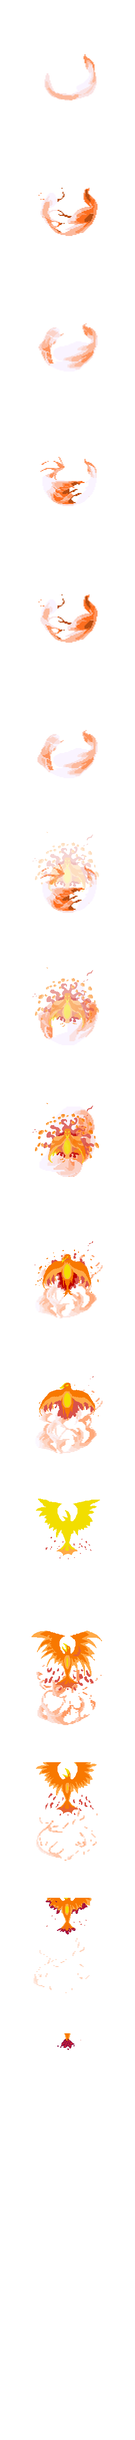
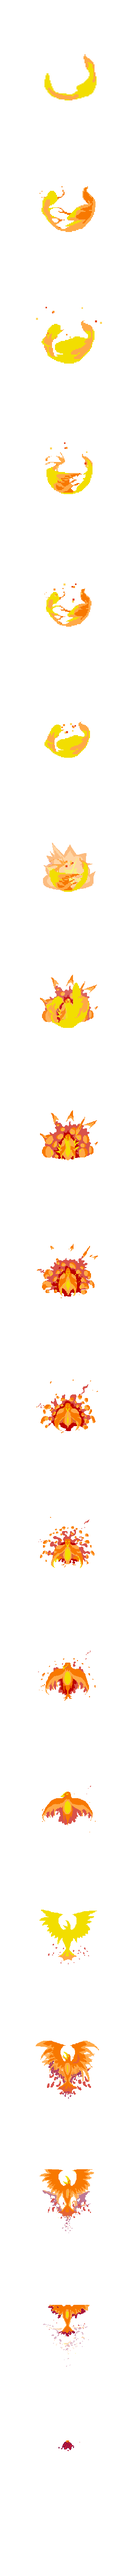
Phoenix Flame Strike caster: swirl recoloured from the phoenix's own palette, coils up the body into a fireball, phoenix born from Duelyst's drawn birth frames; target lead retimed
Claude-Session: https://claude.ai/code/session_01GL8iyk8YMQ4wday8ynG1KQ

Changed region(s): [[0.2667, 0.0, 0.7111, 0.9632]]

diff --git a/art/duelyst_fx/showcase/build_phoenix_caster.py b/art/duelyst_fx/showcase/build_phoenix_caster.py
@@ -8,9 +8,11 @@ Effects: damage on the target (rounds 0) + increasedamagegiven on the caster (SE
 both sides get art with no new tags and no mechanics change. Every clip of one action starts together, and a clip
 stays on its own hex, so the flight is told by timing: the phoenix climbs out of the top of the caster's clip, and
 the target's clip is held back until then and opens with the fireball diving in from above.
-- CASTER appear (buff effect), 18 frames x 70 ms: fire-tinted swirl (Duelyst fx_f1_inmolation 2-7) round the legs;
-  it flares up (inmolation 14-16) while the phoenix fades in out of it (fx_f2_phoenixfire 19); wings fold then open
-  (phoenixfire 20-21); a launch flash (phoenixfire 24); the phoenix climbs and leaves the frame (22, 23, 25, 26).
+- CASTER appear (buff effect), about 19 frames x 70 ms (empty tail trimmed). The swirl (Duelyst fx_f1_inmolation, remapped by luminance onto
+  a colour ramp sampled from the phoenix's own frames, so it is the same fire) coils up from the shins and tightens
+  on the chest while embers spiral in; it flares (inmolation 14-15) over the start of Duelyst's drawn birth
+  (fx_f2_phoenixfire 15-19: the fireball bursts with the phoenix inside), wings fold and open (20-21), a launch
+  flash (24), and the phoenix climbs out of the frame (22, 23, 25, 26) over the birth's dying embers (27-31).
 - No loop or end clip on the buff (director: "There's so many buffs in tnr it would be a mess if they all stayed"):
   the flames show during the cast only; the buff itself stays invisible like other TNR buffs.
 - TARGET appear (damage effect): phoenixfire 8-37 (dive, egg, burst, phoenix, embers) behind a blank lead as long as
@@ -52,31 +54,94 @@ def stamp(canvas, im, cx, cy):
     canvas.alpha_composite(im, (int(round(cx - im.width / 2)), int(round(cy - im.height / 2))))
 
 
+def ramp_from(frames, bins=256):
+    """A luminance -> colour lookup sampled from frames (the phoenix's own fire), dark to light."""
+    import numpy as np
+    pix = []
+    for f in frames:
+        a = np.asarray(f.convert("RGBA")).reshape(-1, 4)
+        pix.append(a[a[:, 3] > 200][:, :3])
+    pix = np.concatenate(pix).astype(np.float32)
+    lum = pix @ np.array([0.299, 0.587, 0.114], np.float32)
+    order = np.argsort(lum)
+    pix, lum = pix[order], lum[order]
+    lut = np.zeros((bins, 3), np.float32)
+    edges = np.linspace(0, len(lum), bins + 1).astype(int)
+    for i in range(bins):
+        seg = pix[edges[i]:max(edges[i] + 1, edges[i + 1])]
+        lut[i] = seg.mean(0)
+    return lut
+
+
+def remap(im, lut):
+    """Recolour by luminance rank onto `lut`, keeping alpha: the swirl becomes the phoenix's fire."""
+    import numpy as np
+    a = np.asarray(im.convert("RGBA")).astype(np.float32)
+    lum = a[..., :3] @ np.array([0.299, 0.587, 0.114], np.float32)
+    idx = np.clip((lum / 255 * (len(lut) - 1)).astype(int), 0, len(lut) - 1)
+    out = a.copy()
+    out[..., :3] = lut[idx]
+    return Image.fromarray(out.astype(np.uint8), "RGBA")
+
+
+def sparks(canvas, centre, n, t, radius, seed=3):
+    """Embers spiralling inward to `centre` (t 0 -> 1), drawn in phoenix colours."""
+    import math
+    import random
+    rnd = random.Random(seed)
+    d = ImageDraw.Draw(canvas)
+    cols = [(255, 214, 90, 255), (255, 150, 40, 255), (230, 70, 30, 255)]
+    for i in range(n):
+        a0 = rnd.uniform(0, 2 * math.pi)
+        r = radius * (1 - t) * rnd.uniform(0.6, 1.0)
+        a = a0 + t * 2.4
+        x, y = centre[0] + math.cos(a) * r, centre[1] + math.sin(a) * r * 0.55
+        sz = 2 + (i % 2)
+        d.rectangle((x, y, x + sz, y + sz), fill=cols[i % 3])
+
+
 def build(app):
     src = os.path.join(app, "resources", "fx")
-    inmo = [D.tint(f, FIRE).resize((140, 140), Image.NEAREST) for f in D.squared(D.frames(src, "fx_f1_inmolation"))]
     phx = D.squared(D.frames(src, "fx_f2_phoenixfire"))           # 150 px
-    swirl_y = FEET - 0.45 * TH                                      # swirl centre round the shins/thighs
-    phx_y = BODY - 10                                               # phoenix forms over the body
+    lut = ramp_from(phx[20:27])
+    inmo = [remap(f, lut).resize((140, 140), Image.NEAREST) for f in D.squared(D.frames(src, "fx_f1_inmolation"))]
+    swirl_y0 = FEET - 0.45 * TH                                     # starts round the shins
+    phx_y = BODY - 10                                               # the phoenix is born over the chest
     blank = lambda: Image.new("RGBA", (C, C), (0, 0, 0, 0))         # noqa: E731
+    shrink = lambda im, k: im.resize((max(1, int(im.width * k)),) * 2, Image.NEAREST)  # noqa: E731
     appear = []
-    for i in range(2, 8):                                           # swirl gathers
-        f = blank(); stamp(f, inmo[i], CX, swirl_y); appear.append(f)
-    for k, i in enumerate((14, 15, 16)):                            # flare up, phoenix fades in
-        f = blank(); stamp(f, inmo[i], CX, swirl_y - 8 * k)
-        stamp(f, alpha(phx[19], (0.25, 0.55, 0.85)[k]), CX, phx_y); appear.append(f)
-    for i in (20, 21):                                              # wings fold, open
-        f = blank(); stamp(f, alpha(inmo[18], 0.6), CX, swirl_y); stamp(f, phx[i], CX, phx_y); appear.append(f)
-    f = blank(); stamp(f, phx[24], CX, phx_y); appear.append(f)     # launch flash
-    rise = [10, 28, 56, 96, 150, 215]
-    for k, i in enumerate((22, 23, 25, 26, 22, 23)):                # climbs out of the frame
+    # 1. the swirl coils up the body and tightens (6 frames)
+    for k, i in enumerate(range(2, 8)):
+        u = k / 5
+        f = blank()
+        stamp(f, shrink(inmo[i], 1.0 - 0.25 * u), CX, swirl_y0 + (phx_y + 18 - swirl_y0) * u)
+        if k >= 2:
+            sparks(f, (CX, phx_y + 10), 10, (k - 2) / 4, 70)
+        appear.append(f)
+    # 2. it flares into a fireball (2 frames), the drawn birth begins underneath
+    for k, i in enumerate((14, 15)):
+        f = blank()
+        stamp(f, alpha(shrink(phx[15 + k], 0.85), 0.5 + 0.4 * k), CX, phx_y + 6)
+        stamp(f, shrink(inmo[i], 0.72), CX, phx_y + 18)
+        sparks(f, (CX, phx_y + 10), 10, 0.85 + 0.15 * k, 70)
+        appear.append(f)
+    # 3. the phoenix bursts out of the fireball (Duelyst's own frames 16-19), wings fold and open (20-21)
+    for i in (16, 17, 18, 19, 20, 21):
+        f = blank()
+        stamp(f, shrink(phx[i], 0.85 if i < 20 else 0.9), CX, phx_y + (6 if i < 20 else 0))
+        appear.append(f)
+    # 4. launch flash, then it climbs out of the frame leaving embers
+    f = blank(); stamp(f, shrink(phx[24], 0.9), CX, phx_y); appear.append(f)
+    rise = [12, 32, 62, 104, 160, 225]
+    for k, i in enumerate((22, 23, 25, 26, 22, 23)):
         f = blank()
         if k < 3:
-            stamp(f, alpha(inmo[19 + k], 0.7 - 0.2 * k), CX, swirl_y)   # embers left behind
+            stamp(f, alpha(shrink(phx[27 + 2 * k], 0.85), 0.8 - 0.25 * k), CX, phx_y + 6)
         p = phx[i] if k < 4 else ImageEnhance.Brightness(phx[i]).enhance(1.15)
-        stamp(f, p, CX, phx_y - rise[k]); appear.append(f)
-    launch_ms = len(appear) * APPEAR_MS - 2 * APPEAR_MS             # the phoenix is gone two frames before the end
-    # target: dive onwards, anchored as build_showcase.py (fire egg's base on the feet), behind a blank lead
+        stamp(f, shrink(p, 0.9), CX, phx_y - rise[k]); appear.append(f)
+    while appear and appear[-1].getbbox() is None:                 # the phoenix has left: drop empty tail
+        appear.pop()
+    launch_ms = len(appear) * APPEAR_MS
     tframes, tpx, _ = fit(phx, 146, FEET_H, 1.5)
     lead = round(launch_ms / TARGET_MS)
     target = [Image.new("RGBA", (tpx, tpx), (0, 0, 0, 0))] * lead + tframes[8:]
